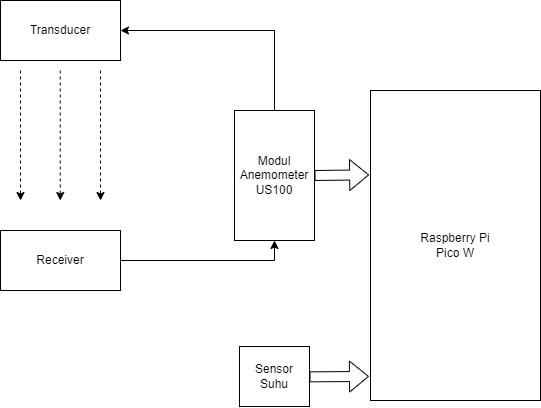
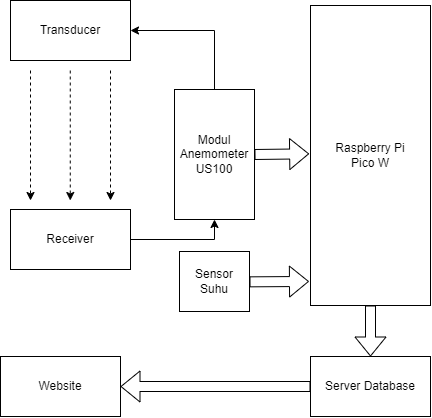
commit

diff --git a/konten/3-metodologi.tex b/konten/3-metodologi.tex
@@ -6,25 +6,43 @@
 
 \begin{figure}[h!]
 	\centering
-	\includegraphics[width=0.7\linewidth]{"gambar/Flowchart penelitian.drawio"}
+	\includegraphics[width=0.4\linewidth]{"gambar/Flowchart penelitian.drawio"}
 	\caption{Flowchart Penelitian}
 	\label{fig:flowchart-penelitian}
 \end{figure}
 
-Pada Tugas Akhir ini, garis besar alur Tugas Akhir dapat dilihat pada Gambar \ref*{fig:flowchart-penelitian}.
-Skema sistem yang akan digunakan pada rencana Tugas Akhir ini ditunjukkan pada Gambar \ref*{fig:blok-diagram-anemometer-ultrasonic}. 
-Pengujian performansi alat ini menggunakan metode pengujian manipulasi kecepatan angin kemudian dilakukan perbandingan 
-antara sensor Ultrasonic pada Anemometer Ultrasonic dalam Ruangan Berbasis Raspberry Pi Pico dengan anemometer Hot-wire komersial yang
- memiliki pengukuran kecepatan angin paling kecil mencapai 0,1 m/s.
+Pada Tugas Akhir ini, garis besar alur Tugas Akhir dapat dilihat pada Gambar \ref*{fig:flowchart-penelitian}. Berikut penjelasan
+dari tiap tahapan pada Gambar \ref{fig:flowchart-penelitian}.
 
-\begin{figure}[h!]
-	\centering
-	\includegraphics[width=0.7\linewidth]{"gambar/Blok diagram anemometer ultrasonic"}
-	\caption{Blok Diagram Sistem}
-	\label{fig:blok-diagram-anemometer-ultrasonic}
-\end{figure}
+\begin{enumerate}
+  \item Studi Literatur
+  
+  Studi literatur adalah metode awal yang dilakukan guna mencari materi-materi penunjang dari pengembangan anemometer ultrasonic 
+  dalam ruangan berbasis Raspberry Pi Pico. Studi literatur ini dilakukan dengan mempelajari dan menganalisis dari rancang bangun 
+  anemometer yang telah dibuat sebelumnya. Baik berupa penggunaan sensor, aktuator, maupun metode penelitian sebagai bahan penunjang 
+  tambahan dari gagasan yang akan direalisasikan. Dalam pencarian studi literatur ini dilakukan referensi dari buku, jurnal penelitian, 
+  ataupun artikel ilmiah yang berkaitan dengan gagasan yang dibawa. Data yang sudah terkumpul dari studi literatur sebelumnya dikumpulkan
+  dan diolah untuk penunjang gagasan yang direalisasikan.
 
-Adapun diagram blok sistem pengukuran kecepatan angin pada alat ini adalah sebagai berikut:
+  \item Persiapan Rancang Bangun Anemometer Ultrasonic
+
+  \begin{figure}[h!]
+    \centering
+    \includegraphics[width=0.4\linewidth]{"gambar/Blok diagram anemometer ultrasonic"}
+    \caption{Blok Diagram Sistem}
+    \label{fig:blok-diagram-anemometer-ultrasonic}
+  \end{figure}
+
+  Model sistem yang digunakan dapat dilihat pada  gambar \ref{fig:blok-diagram-anemometer-ultrasonic}. Prototipe anemometer ultrasonic dalam ruangan berbasis 
+  Raspberry Pi Pico ini akan dilengkapi dengan Website yang dapat menampilkan hasil data yang diperoleh alat secara real-time. Pengujian prototipe ini akan dilakukan 
+  dengan menghitung kecepatan angin pada saat kondisi normal dengan jarak konstan, kemudian hasilnya akan dibandingkan dengan anemometer yang asli. 
+
+  \item Perancangan Perangkat komersial
+  
+  Pada penelitian kali ini akan dilakukan pembuatan desain alat menggunakan aplikasi Fusion 360, dimana hasilnya akan dicetak menggunakan printer 3D. Selain desain alat, terdapat komponen
+  penting lainnya seperti sensor Ultrasonic, sensor suhu, penggaris, dan LCD untuk menampilkan informasi. Setelah seluruh komponen dijadikan prototipe, maka akan dilanjutkan ke tahap kalibrasi
+
+  \item Kalibrasi Sensor Ultrasonic
 
 \begin{figure}[h!]
 	\centering
@@ -33,15 +51,53 @@ Adapun diagram blok sistem pengukuran kecepatan angin pada alat ini adalah sebag
 	\label{fig:diagram-blok-pengukuran-kecepatan-angin}
 \end{figure}
 
+  Untuk menemukan konversi dari pembacaan sensor yang tepat. Dilakukan beberapa percobaan dengan berbagai kondisi dan variabel untuk menentukan rumus yang tepat untuk digunakan sebagai rumus umum.
+  Adapun diagram blok sistem pengukuran kecepatan angin pada alat ini dapat dilihat pada Gambar \ref{fig:diagram-blok-pengukuran-kecepatan-angin}.
+
+  \item Perancangan Perangkat Lunak
+  
+  Pada penelitian kali ini dibutuhkan perancangan perangkat lunak untuk menghubungkan antara hasil pembacaan sensor ultrasonic dengan website melalui jaringan internet.
+
+  \item Pembuatan Website untuk menampilkan data alat
+  
+  Secara garis besar, website akan menampilkan kecepatan angin dari prototipe alat secara real-time.
+  
+  \item Koneksi Anemometer ultrasonic dengan Website
+  
+  Pada tahapan ini, akan dilakukan penghubungan antara perangkat keras dengan perangkat lunak sehingga prototipe alat dapat terhubung dengan internet dan data yang diperoleh dapat dilihat melalui 
+  website. Jika semua sudah terkoneksi dengan benar maka akan dilanjutkan pada tahap pengujian.
+
+  \item Pengujian alat dan pengambilan data
+  
+  Pada tahap pengujian akan dilakukan pengujian pengukuran kecepatan angin. Pengujian alat ini menggunakan metode perubahan variabel kecepatan angin kemudian dilakukan perbandingan 
+  antara hasil pengukuran dari alat prototipe dengan hasil pengukuran dari anemometer Hot-wire yang
+  memiliki pengukuran kecepatan angin paling kecil mencapai 0,1 m/s.
+  \item Penarikan kesimpulan
+  
+  Berdasarkan data yang diperoleh dari tahap pengujian, dilakukan analisa dan didapatkan kesimpulan yang menjawab dari perumusan masalah yang terdapat pada bab I. 
+\end{enumerate}
 
 \subsection{Bahan dan peralatan yang digunakan}
 
-Untuk Alat dan bahan yang diperlukan dalam Tuagas Akhir ini adalah sebagai berikut:
+Untuk Alat dan bahan penunjang penelitian Tugas Akhir ini adalah sebagai berikut:
 \begin{enumerate}
   \item Raspberry Pi Pico W
-  \item Sensor Ultrasonic US-100
+  
+  Raspberry Pi Pico W adalah sebuah board minimum sistem mikrokontroller yang berbasis chip RP2040 didalamnya. 
+  Alat ini digunakan untuk membaca data dari sensor ultrasonic dan memproses data hasil bacaan sensor. Selain itu, 
+  mikrokontroller ini sudah memiliki modul wifi didalamnya sehingga dapat mengirimkan data langsung ke server database 
+  melalui jaringan wifi internet.
+
+  \item Modul US-100
+  
+  Merupakan sensor ultrasonic yang umumnya digunakan sebagai pengukur jarak, namun pada penelitian ini digunakan sebagia
+  pengukur kecepatan angin. Modul sensor ini terdiri dari sepasang transducer ultrasonic, salah satu bagian berfungsi sebagai 
+  transmitter yang mengubah sinyal elektrik menjadi sinyal pulsa gelombang suara ultrasonic dengan frekuensi 40KHz., dan bagian lainnya 
+  berfungsi sebagai receiver yang berfungsi menerima sinyal gelombang ultrasonic.
   \item Sensor Suhu
-  \item Anemometer Hot-Wire sebagai alat validasi pengukuran
+  
+  Sensor suhu digunakan untuk mengetahui kondisi temperatur sekitar dari alat prototipe yang dibangun. Hal ini berguna sebagai variabel 
+  pendukung dikarenakan salah satu parameter dalam kecepatan angin adalah suhu udara sekitar.
 \end{enumerate}
 
 \subsection{Urutan pelaksanaan penelitian}
@@ -59,20 +115,40 @@ Untuk Alat dan bahan yang diperlukan dalam Tuagas Akhir ini adalah sebagai berik
     \hline
 
     % Gunakan \G untuk mengisi sel dan \w untuk mengosongkan sel
-    Perancangan Sistem &
-    \G & \G & \G & \G & \G & \G & \w & \w & \w & \w & \w & \w & \w & \w & \w & \w \\
+    Studi Literatur &
+    \G & \w & \w & \w & \w & \w & \w & \w & \w & \w & \w & \w & \w & \w & \w & \w \\
     \hline
 
-    Pengolahan data &
-    \w & \w & \w & \w & \w & \w & \G & \G & \G & \w & \w & \w & \w & \w & \w & \w \\
+    Persiapan Alat dan Bahan &
+    \w & \G & \G & \w & \w & \w & \w & \w & \w & \w & \w & \w & \w & \w & \w & \w \\
     \hline
 
-    Analisa data &
-    \w & \w & \w & \w & \w & \w & \w & \w & \w & \G & \G & \G & \w & \w & \w & \w \\
+    Perancangan Perangkat Keras &
+    \w & \w & \w & \G & \G & \w & \w & \w & \w & \w & \w & \w & \w & \w & \w & \w \\
     \hline
 
-    Evaluasi penelitian &
-    \w & \w & \w & \w & \w & \w & \w & \w & \w & \w & \w & \w & \G & \G & \G & \G \\
+    Kalibrasi Sensor &
+    \w & \w & \w & \w & \w & \G & \G & \w & \w & \w & \w & \w & \w & \w & \w & \w \\
+    \hline
+
+    Perancangan Perangkat Lunak &
+    \w & \w & \w & \w & \w & \w & \w & \G & \G & \w & \w & \w & \w & \w & \w & \w \\
+    \hline
+
+    Pembuatan Website &
+    \w & \w & \w & \w & \w & \w & \w & \w & \w & \G & \G & \w & \w & \w & \w & \w \\
+    \hline
+
+    Koneksi Antara Anemometer Ultrasonic dengan Website &
+    \w & \w & \w & \w & \w & \w & \w & \w & \w & \w & \w & \G & \w & \w & \w & \w \\
+    \hline
+
+    Pengujian Alat &
+    \w & \w & \w & \w & \w & \w & \w & \w & \w & \w & \w & \w & \G & \G & \w & \w \\
+    \hline
+
+    Penarikan Kesimpulan &
+    \w & \w & \w & \w & \w & \w & \w & \w & \w & \w & \w & \w & \w & \w & \G & \G \\
     \hline
 
   \end{tabular}

diff --git a/konten/1-pendahuluan.tex b/konten/1-pendahuluan.tex
@@ -4,15 +4,20 @@
 
 % Ubah paragraf-paragraf berikut sesuai dengan latar belakang dari tugas akhir
 Ruangan adalah suatu tempat tertutup dengan langit-langit yang berada di rumah atau bentuk bangunan lainnya. Ruangan biasanya memiliki pintu dan jendela yang berfungsi sebagai tempat masuknya cahaya, 
-aliran udara, dan akses menuju ruangan tersebut. Aliran udara berperan dalam memberikan penghawaan serta mengeluarkan udara dari dalam ke luar ruangan. Namun, aliran udara didalam ruangan tidaklah konstan karena dipengaruhi 
+aliran udara, dan akses menuju ruangan tersebut. Menurut Kepmenkes No.1204/ Menkes/ SK/ X/ 2004 tentang Persyaratan kesehatan lingkungan rumah sakit, penghawaan ruang bangunan adalah aliran udara segar didalam ruang bangunan yang memadai untuk menjamin Kesehatan penghuni 
+ruangan \parencites{menkes2004}. 
+Aliran udara berperan dalam memberikan penghawaan serta mengeluarkan udara dari dalam ke luar ruangan. Namun, aliran udara didalam ruangan tidaklah konstan karena dipengaruhi 
 oleh luasnya akses udara, keberadaan suhu dan kelembapan di dalam ruangan.
 
-Untuk mengukur kecepatan aliran udara dapat menggunakan alat bernama Anemometer. Anemometer memiliki berbagai macam jenis, secara umum anemometer terbagi menjadi dua macam yaitu velocity anemometer atau anemometer yang 
-berfungsi mengukur kecepatan angin dan anemometer tekanan atau pressure anemometer yang berfungsi mengukur tekanan angin. Salah satu yang merupakan jenis velocity anemometer yaitu sonic/ultrasonic anemometer, dengan menggunakan 
-media berupa gelombang suara.
+Aliran udara dalam ruang tersebut dapat berasal dari ventilasi alamiah (seperti jendela) ataupun ventilasi buatan/mekanik (seperti AC atau exhaust). Didalam buku Guideline for Good Indoor Air Quality in Office Premises menyebutkan 
+aliran udara yang baik pada ruangan adalah $\geq$ 0.25 cm/detik \parencite{inst1996guide}.
+Untuk mengukur kecepatan aliran udara dapat menggunakan alat bernama Anemometer. Anemometer memiliki berbagai macam jenis, secara umum anemometer terbagi menjadi dua macam yaitu velocity anemometer yang 
+berfungsi mengukur kecepatan angin dan pressure anemometer yang berfungsi mengukur tekanan angin. Salah satu jenis velocity anemometer anemometer ultrasonic yang memanfaatkan prinsip time of flight dari suara ultrasonik untuk memastikan kecepatan dan arah angin.
 
-Pada penelitian sebelumnya, telah dibuat suatu rancang bangun anemometer yang digunakan didalam ruangan. Pada rancangan Anemometer Ultrasonic sendiri memiliki kekurangan pada akurasi data karena masih memiliki error yang cukup 
-tinggi hingga 11.11 persen. Untuk meningkatkan akurasi data diperlukan frekuensi yang lebih tinggi pada mikrokontroler yang digunakan. Pada mikrokontroler sebelumnya hanya sebatas 16MHz, diharapkan dengan 
+Pada umumnya anemometer hanya dapat digunakan untuk kondisi luar ruangan untuk keperluan seperti di stasiun meteorologi ataupun menara bandara. 
+Untuk penggunaan anemometer didalam ruangan memerlukan penyesuaian agar anemometer mampu membaca aliran udara yang rendah. 
+Pada penelitian sebelumnya, telah dibuat suatu rancang bangun anemometer yang digunakan didalam ruangan. Walaupun rancang bangun anemometer ultrasonic berhasil berjalan dengan baik, akurasi data pengukuran kecepatan angin yang diambil memiliki error yang cukup 
+tinggi hingga 11.11 persen. Selain itu, ukuran dari rancang bangun tersebut Untuk meningkatkan akurasi data diperlukan frekuensi yang lebih tinggi pada mikrokontroler yang digunakan. Pada mikrokontroler sebelumnya hanya memiliki frekuensi sebatas 16MHz, diharapkan dengan 
 mengganti mikrokontroler menjadi Raspberry Pi Pico yang memiliki kemampuan frekuensi hingga 133MHz dapat meningkatkan akurasi data dari anemometer ultrasonic didalam ruangan.
 
 
@@ -21,7 +26,7 @@ mengganti mikrokontroler menjadi Raspberry Pi Pico yang memiliki kemampuan freku
 % Ubah paragraf berikut sesuai dengan rumusan masalah dari tugas akhir
 Berdasarkan hal yang telah dipaparkan di latar belakang. Rumusan masalah yang dibawa adalah sebagai berikut:
 \begin{enumerate}
-	\item[a.] Pada penelitian sebelumnya, terdapat kekurangan pada akurasi data yang didapatkan masih rendah.
+	\item[a.] Pada penelitian sebelumnya, akurasi data yang didapatkan masih rendah.
 	\item[b.] Ukuran dari rancang bangun Anemometer masih terbilang cukup besar untuk digunakan didalam ruangan.
 \end{enumerate}
 
@@ -58,6 +63,6 @@ Adapun manfaat yang diperoleh dari Tugas Akhir ini sebagai berikut:
 	
 	\item [c.]	Bagi masyarakat
 	
-	Memperluas wawasan dalam perancangan anemometer ultrasonic dalam pengukuran aliran udara.
+	Memperluas wawasan dalam perancangan anemometer ultrasonic untuk pengukuran aliran udara rendah.
 	
 \end{enumerate}

diff --git a/konten/2-tinjauan-pustaka.tex b/konten/2-tinjauan-pustaka.tex
@@ -11,7 +11,7 @@ masih memiliki error yang cukup besar yaitu maksimal 11,11 persen dan minimal se
 
 \begin{figure}[h!]
 	\centering
-	\includegraphics[width=0.7\linewidth]{gambar/fig_anemometer_abdillah_prototipe}
+	\includegraphics[width=0.5\linewidth]{gambar/fig_anemometer_abdillah_prototipe}
 	\caption{Rancang Bangun Anemometer Ultrasonic \parencite{Abdillah2022}}
 	\label{abdillah_anemo_prototipe}
 \end{figure}
@@ -25,7 +25,7 @@ tertinggi sebesar 5,10 m/s dengan arah angin dinotasikan dalam derajat (theta).
 
 \begin{figure}[h!]
 	\centering
-	\includegraphics[width=0.7\linewidth]{gambar/fig_alat_cahyolaksono}
+	\includegraphics[width=0.5\linewidth]{gambar/fig_alat_cahyolaksono}
 	\caption{Rancang Bangun Thermal-Based Anemometer \parencite{Cahyolaksono2022}}
 	\label{fig:figalatcahyolaksono}
 \end{figure}
@@ -132,7 +132,7 @@ yang ditempatkan tegak lurus terhadap angin. Angin akan menggerakkan bendera dan
 
 \begin{figure}[h!]
 	\centering
-	\includegraphics{gambar/anemometerGen1}
+	\includegraphics[width=0.3\linewidth]{gambar/anemometerGen1}
 	\caption{Anemometer Generasi Pertama \parencite{Panjaitan2018}}
 	\label{fig:anemometergen1}
 \end{figure}
@@ -160,7 +160,7 @@ diketahui kecepatananginnya. Didalam anemometer terdapat alat pencacah yang akan
 
 \begin{figure}[h!]
 	\centering
-	\includegraphics[width=0.5\linewidth]{gambar/anemometerWindmill}
+	\includegraphics[width=0.3\linewidth]{gambar/anemometerWindmill}
 	\caption{Windmill Anemometer}
 	\label{fig:anemometerwindmill}
 \end{figure}
@@ -208,7 +208,7 @@ longitudinal, gerak partikel pada suatu media akustik searah dengan perambatanny
 
 \begin{figure}[h!]
 	\centering
-	\includegraphics[width=\linewidth]{"gambar/spektrum akustik"}
+	\includegraphics[width=0.8\linewidth]{"gambar/spektrum akustik"}
 	\caption{Spektrum Akustik \parencite{figGelombangAkustik}}
 	\label{fig:spektrum-akustik}
 \end{figure}
@@ -335,6 +335,13 @@ kecepatan rambat suara akan menurun \parencite{del2007low}.
 
 \subsection{Raspberry Pi Pico W}
 
+\begin{figure}[h!]
+	\centering
+	\includegraphics[width=0.7\linewidth]{"gambar/pico pinout"}
+	\caption{Raspberry Pi Pico Pinout \parencite{figPicoPinout}}
+	\label{fig:pico-pinout}
+\end{figure}
+
 Raspberry Pi Pico merupakan microcontroller pertama yang diproduksi oleh Raspberry Pi Foundation pada tahun 2021. Terdapat 2 model
 yaitu yang seri biasa dan seri W yang sudah terintegrasi dengan modul Wifi. Baik seri biasa dan seri W menggunakan RP2040 sebagai basisnya.
 Raspberry Pi Pico adalah mikrokontroler pertama berkinerja tinggi, rendah biaya
@@ -347,10 +354,37 @@ cache on-chip. 16 pin PWM, Real Time Counter,
 dan USB1.1 on-board menambah fitur Raspberry Pi
 Pico. Pi Pico berjalan di MicroPython, implementasi dari
 Pemrograman Phyton 3 \parencite{thothadri2021analysis}.
-
-\begin{figure}[h!]
+\begin{table}[h!]
+	\caption{Spesifikasi Raspberry Pi Pico}
 	\centering
-	\includegraphics[width=0.7\linewidth]{"gambar/pico pinout"}
-	\caption{Raspberry Pi Pico Pinout \parencite{figPicoPinout}}
-	\label{fig:pico-pinout}
-\end{figure}
+	\begin{tabular}{|c|p{6cm}|}
+		\hline
+		SoC & RP2040  \\
+		\hline
+		CPU type & Cortex M0+  \\
+		\hline
+		Core Count & 2  \\
+		\hline
+		Max Speed & 48 Mhz, upto 133 Mhz  \\
+		\hline
+		SRAM & 264kB in 6 banks  \\
+		\hline
+		Storage & 2 MB QSPI flash (up to 16 MB supported)  \\
+		\hline
+		Connectivity & 802.11b/g/n WiFi 4 with ABRACON onboard antenna (Infineon CYW43439 connected over SPI)  \\
+		\hline
+		USB & 1x Micro USB 1.1 port used for power and programming  \\
+		\hline
+		Expansion & - 2x 20-pin 2.54mm pitch header and castellated holes with 26x GPIOs, 3x 12-bit ADC up to 500 Kbps, 2x UART, 2x I2C, 2x SPI, 16x PWM, 2 × programmable I/O (PIO) blocks with 8 state machines  \\
+		& - 3.3V I/O voltage  \\
+		\hline
+		Debugging & 3-pin Arm Serial Wire Debug (SWD) port  \\
+		\hline
+		& - BOOTSEL button  \\
+		Misc & - user LED (WL\_GPIO0)  \\
+		& - RTC  \\
+		\hline
+		Power Supply & 5V via Micro USB port or 1.8 to 5.5V DC via VSYS pin  \\
+		\hline
+	\end{tabular}
+\end{table}
